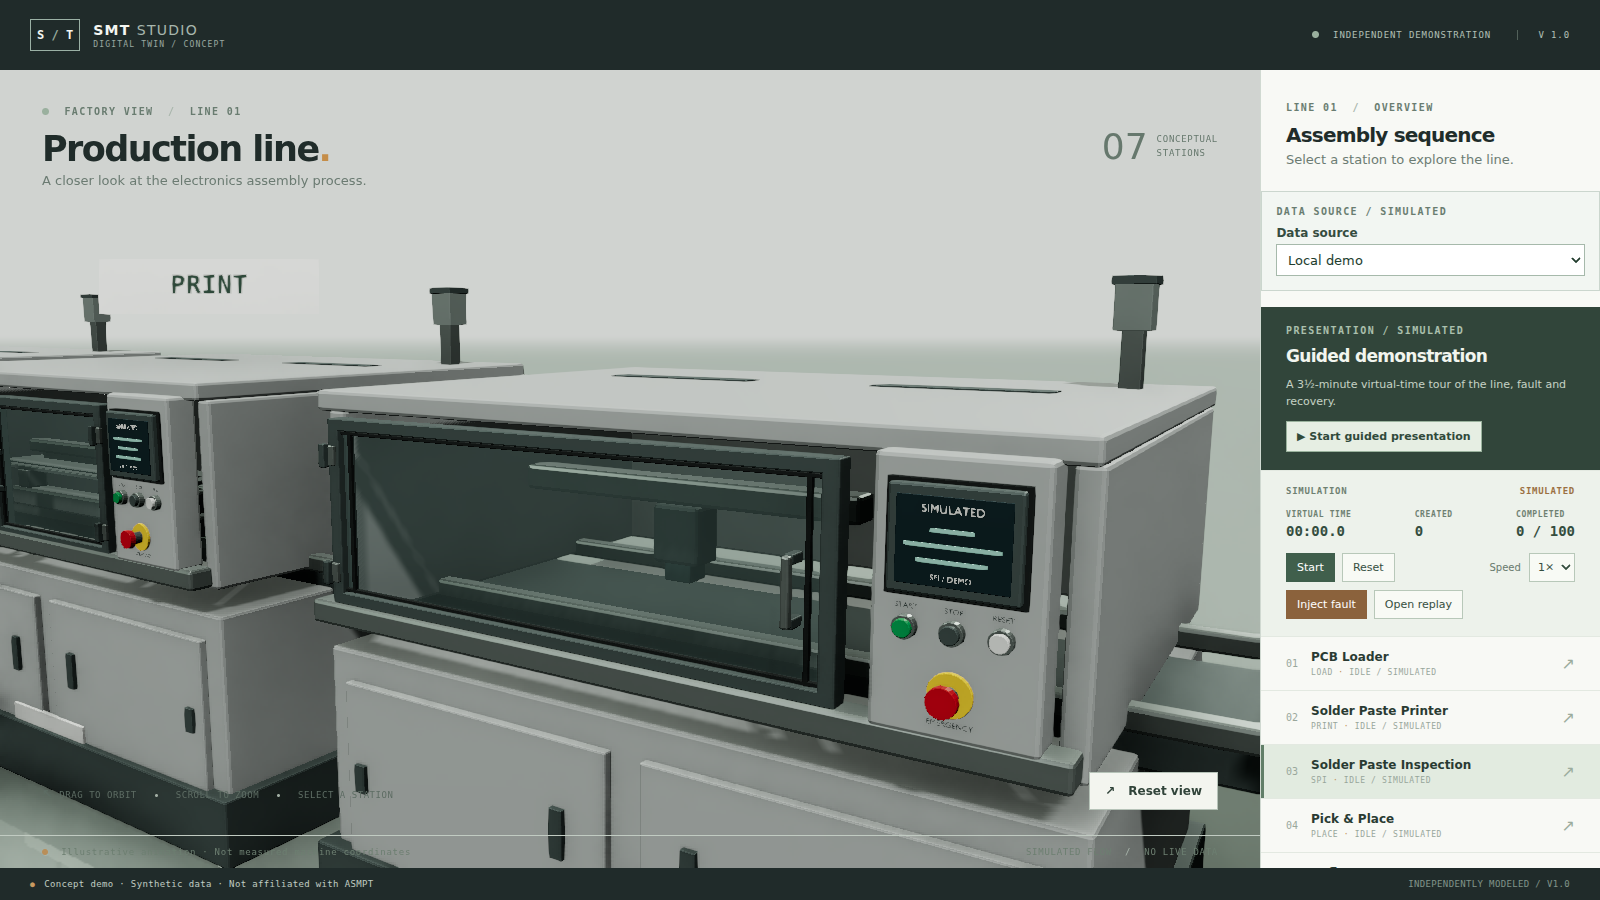
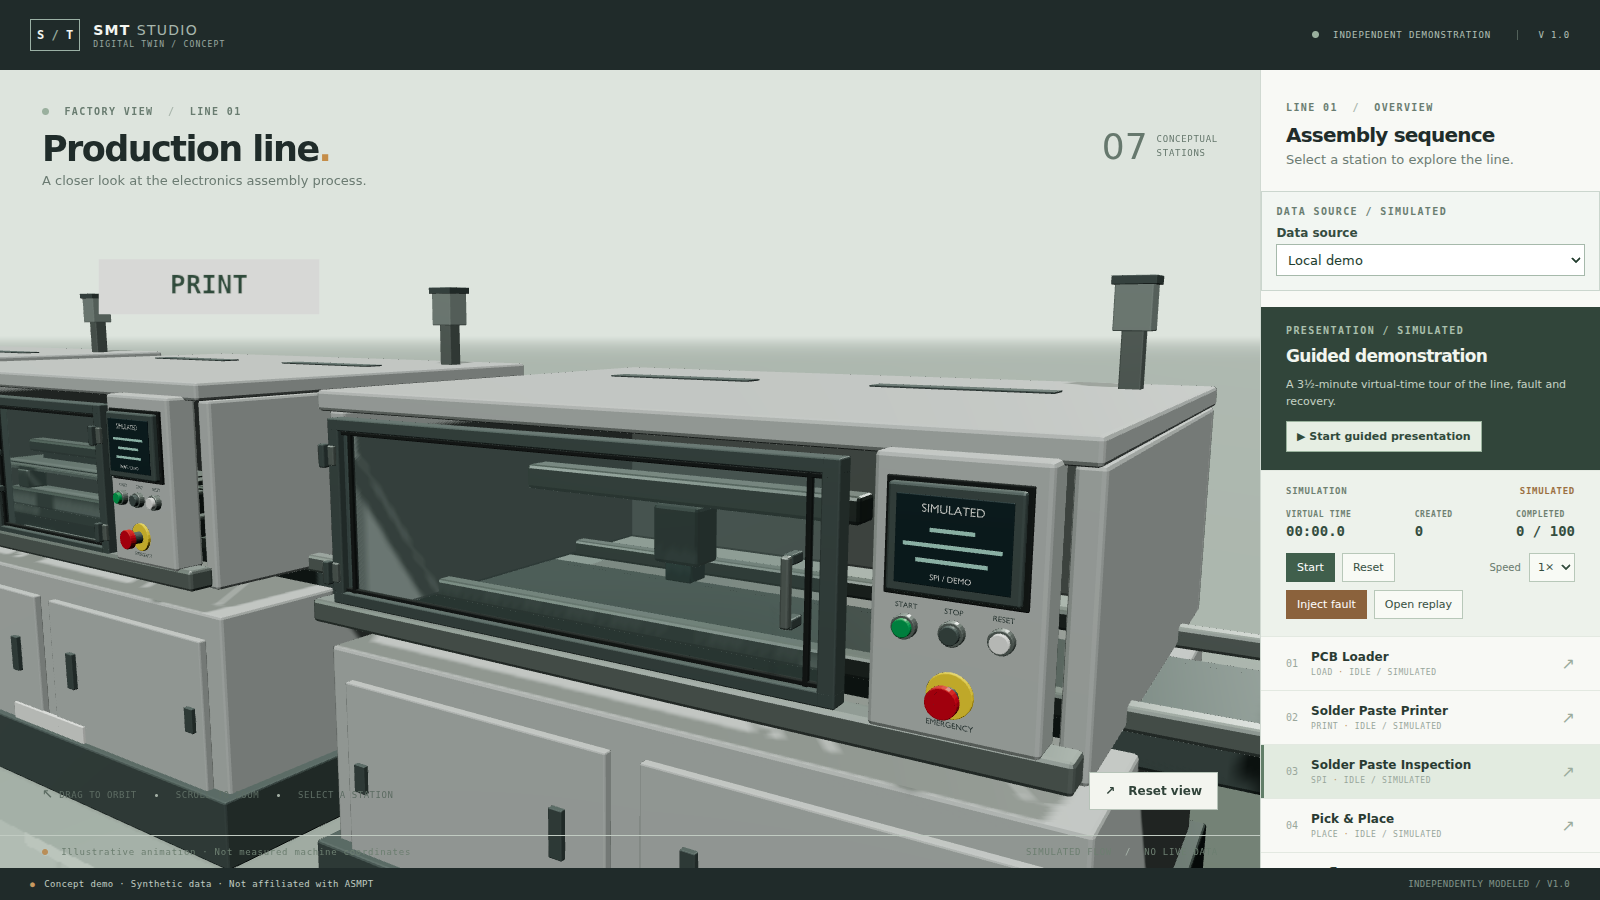
revert: drop ambient occlusion and keep the matte paint
AO changed the overview by 2.2 and the close-up by 8.5 grey levels while
costing 165 kB and a tenth of the frame; the key light already supplies
the contact shading. The pass, its packages and its tests are removed.

diff --git a/tests/e2e/factory.spec.ts b/tests/e2e/factory.spec.ts
@@ -40,8 +40,7 @@ test('a drag during the push-in cancels the ease without breaking the scene', as
   expect(errors).toEqual([])
 })
 
-for (const [mode, query, renderer] of [['ambient occlusion', '', 'composed'], ['low quality', '?quality=low', 'direct']]) {
-test(`renders the scene with ${mode} without console errors or cross-origin requests`, async ({ page }) => {
+test('renders the scene without console errors or cross-origin requests', async ({ page }) => {
   const errors: string[] = []
   const external: string[] = []
   page.on('pageerror', error => errors.push(error.message))
@@ -51,31 +50,13 @@ test(`renders the scene with ${mode} without console errors or cross-origin requ
     if (!url.protocol.startsWith('http')) return
     if (url.hostname !== '127.0.0.1' && url.hostname !== 'localhost') external.push(request.url())
   })
-  await page.goto(`/${query}`)
-  await expect(page.locator('canvas')).toBeVisible()
-  await expect(page.locator('body')).toHaveAttribute('data-renderer', renderer)
-  await page.waitForTimeout(1500)
-  await page.screenshot({ path: `test-results/overview-${query ? 'low' : 'ao'}.png`, animations: 'disabled' })
-  await page.getByRole('button', { name: /Pick & Place/ }).click()
-  await page.waitForTimeout(1200)
-  await page.screenshot({ path: `test-results/closeup-${query ? 'low' : 'ao'}.png`, animations: 'disabled' })
-  expect(external).toEqual([])
-  expect(errors).toEqual([])
-})
-}
-
-test('falls back to direct rendering when the context cannot render to float targets', async ({ page }) => {
-  await page.addInitScript(() => {
-    const original = WebGL2RenderingContext.prototype.getExtension
-    WebGL2RenderingContext.prototype.getExtension = function (name: string) {
-      if (name === 'EXT_color_buffer_float') return null
-      return original.call(this, name)
-    }
-  })
-  const warnings: string[] = []
-  page.on('console', message => { if (message.type() === 'warning') warnings.push(message.text()) })
   await page.goto('/')
   await expect(page.locator('canvas')).toBeVisible()
-  await expect(page.locator('body')).toHaveAttribute('data-renderer', 'direct')
-  await expect.poll(() => warnings.some(text => text.includes('Ambient occlusion disabled'))).toBe(true)
+  await page.waitForTimeout(1500)
+  await page.screenshot({ path: 'test-results/v12-overview.png', animations: 'disabled' })
+  await page.getByRole('button', { name: /Pick & Place/ }).click()
+  await page.waitForTimeout(1200)
+  await page.screenshot({ path: 'test-results/v12-closeup.png', animations: 'disabled' })
+  expect(external).toEqual([])
+  expect(errors).toEqual([])
 })

diff --git a/src/scene/Factory.tsx b/src/scene/Factory.tsx
@@ -13,14 +13,7 @@ import { easeInOutCubic, lerpPreset, tweenProgress } from './cameraTween'
 import { signalColor, signalIntensity } from './status'
 import Floor from './Floor'
 import LightRig, { EXPOSURE } from './lighting'
-import AmbientOcclusion from './AO'
-import { aoEnabled } from './ao'
 import { castsShadow } from './assetMaterials'
-
-function RenderMode({ mode }: { mode: 'composed' | 'direct' }) {
-  useEffect(() => { document.body.dataset.renderer = mode }, [mode])
-  return null
-}
 
 function Box({ position, size, color, metal = 0.25, name }: { position: [number, number, number]; size: [number, number, number]; color: string; metal?: number; name?: string }) {
   return <mesh name={name} position={position} castShadow receiveShadow><boxGeometry args={size} /><meshStandardMaterial color={color} metalness={metal} roughness={0.57} /></mesh>
@@ -215,9 +208,6 @@ export default function Factory({ selected, onSelect, resetKey, scene, selectedB
   return <Canvas shadows dpr={[1, 1.5]} gl={{ toneMappingExposure: EXPOSURE }} camera={{ position: overviewCamera.position, fov: 40 }} fallback={<div className="canvas-fallback">3D view unavailable. WebGL is required to view the factory.</div>}>
     <color attach="background" args={['#dde4dd']} /><fog attach="fog" args={['#dde4dd', 45, 110]} />
     <LightRig />
-    {aoEnabled(typeof window === 'undefined' ? '' : window.location.search)
-      ? <AmbientOcclusion />
-      : <RenderMode mode="direct" />}
     <Floor />
     {stations.map(station => <Machine key={station.id} station={station} machine={scene.stations[station.id]?.localMotion ?? null} status={scene.stations[station.id]?.state ?? 'UNKNOWN'} time={scene.simTimeMs} selected={selected?.id === station.id || boardStation === station.id} onSelect={() => onSelect(station)} />)}
     <Boards scene={scene} selectedBoard={selectedBoard} onSelectBoard={onSelectBoard} /><CameraRig station={selected} resetKey={resetKey} />

diff --git a/docs/MATERIALS_AO_REPORT.md b/docs/MATERIALS_AO_REPORT.md
@@ -1,14 +1,11 @@
-# Materials and ambient occlusion
+# Materials round (ambient occlusion evaluated and removed)
 
 Date: 2026-11-13. Branch: `v16-materials-ao`. **Awaiting user visual acceptance.**
 
 ## Delivered
 
 - **Powder coat** changed from bright semi-metallic paint to matte paint: base colour `(.46, .49, .47)` (was `.68/.72/.69`), metallic `.04` (was `.27`), roughness `.62` (was `.48`). All seven GLBs were regenerated; geometry is byte-for-byte identical and only that one material changed in each file.
-- **Ambient occlusion** via `n8ao`'s `N8AOPass` in a three `EffectComposer`: half resolution, `aoRadius 1.0`, `distanceFalloff 1.0`, `intensity 2.5`.
-- The composer ends with `SMAAPass` and `OutputPass`. N8AO draws into its own float target, so three's tone mapping and MSAA would otherwise be lost; N8AO's own gamma correction is disabled and the `OutputPass` applies ACES and the existing `toneMappingExposure` exactly as the direct path does.
-- The pass is skipped by `?quality=low` (with the environment bake) and by `?ao=off` (pass only, for comparison). It is also gated at runtime on `EXT_color_buffer_float`: without float render targets the demo renders directly and warns, instead of showing an empty stage.
-- No geometry, camera, simulation, backend or copy changes. No downloaded textures.
+- **No other rendering change.** The ambient-occlusion pass that was built earlier on this branch was measured, shown to the user and removed. Camera, simulation, backend, copy and screenshots are otherwise as before.
 
 ## Inspect
 
@@ -16,45 +13,42 @@ Date: 2026-11-13. Branch: `v16-materials-ao`. **Awaiting user visual acceptance.
 npm run dev -- --host 127.0.0.1 --port 5188
 ```
 
-| Base `6b16446` (old paint, no AO) | This branch (matte paint + AO) |
+| Base `6b16446` (old paint) | This branch (matte paint) |
 | --- | --- |
 | ![Before](screenshots/materials-ao/before-overview.png) | ![After](screenshots/materials-ao/overview.png) |
 
-Isolating the two levers on the same build:
+Close-ups: [mounter](screenshots/materials-ao/mounter.png) · [printer](screenshots/materials-ao/printer.png) · [SPI](screenshots/materials-ao/spi.png) · [reflow](screenshots/materials-ao/reflow.png). Base mounter: [before](screenshots/materials-ao/before-mounter.png). Low quality (`?quality=low`): [overview](screenshots/materials-ao/overview-low.png) · [mounter](screenshots/materials-ao/mounter-low.png).
 
-- paint only: [overview without AO](screenshots/materials-ao/overview-no-ao.png) — the matte paint is the larger change; the line loses its plastic sheen.
-- AO only (same paint, AO off → on): compare that image with [the overview](screenshots/materials-ao/overview.png).
+The cabinets now read as matte paint instead of plastic sheen; the metallic `0.27` on a non-metal surface was the main cause. Glazing, trim and the floor reflection are unchanged.
 
-Close-ups with AO: [mounter](screenshots/materials-ao/mounter.png) · [printer](screenshots/materials-ao/printer.png) · [SPI](screenshots/materials-ao/spi.png). Without AO/base: [mounter at base](screenshots/materials-ao/before-mounter.png), [low-quality overview](screenshots/materials-ao/overview-low.png), [low-quality mounter](screenshots/materials-ao/mounter-low.png).
+## Why ambient occlusion was removed
 
-Inspected at 1600×900 in headless Chromium/SwiftShader: the cabinets read as matte paint rather than plastic; AO darkens the recesses under frames, the plinth line and the door returns, and is subtle in the open. Glazed interiors stay readable, the planar floor reflection shows no doubled or leaking AO, and there are no console or page errors in either mode.
+AO was implemented as `n8ao`'s `N8AOPass` in a three composer (with `SMAA` and `OutputPass` so tone mapping and antialiasing survived), then compared three ways at the same camera:
+
+| Comparison (mean difference, 0–255 levels) | Overview | Mounter close-up |
+| --- | --- | --- |
+| AO off → intensity 2.5 | 2.2 | 8.5 |
+| AO off → intensity 4.0 / radius 1.4 | — | 12.3 |
+
+The contact shading the demo needs was already supplied by the key light's shadow map; AO only darkened the cabinet underside, door returns and cavity by a few levels. It cost 165 kB of bundle (478 → 603 kB gzip) and about a tenth of the frame time on headless SwiftShader. The user chose to drop it, so the pass, its two packages and its tests were removed.
+
+That earlier work also found a real trap worth keeping in mind if AO is ever revisited: N8AO renders into float targets and bypasses three's tone mapping and MSAA, so it needs `gammaCorrection = false` plus `SMAAPass` and `OutputPass`, and a context without `EXT_color_buffer_float` renders a blank stage unless the pass is gated.
 
 ## Measurements
 
 | Item | Value |
 | --- | --- |
-| Bundle | 1,679 kB → 1,909 kB minified (478 → 603 kB gzip); existing >500 kB warning remains |
-| New packages | `n8ao@2.0.2`, `@react-three/postprocessing@3.2.2` (brings `postprocessing@6.39.6`) |
-| Callback rate, AO on | 1.68 /s |
-| Callback rate, `?ao=off` (same lighting) | 1.86 /s |
+| Bundle | 1,679.32 kB minified / 478.31 kB gzip (unchanged from base; the AO packages are gone) |
+| `npm test` | 81 passed, 1 skipped |
+| `npm run typecheck` / `lint` / `build` | exit 0 (existing >500 kB warning) |
+| `npm run test:e2e` | 29 passed, 1 skipped, 6.1 min |
+| Callback rate, default | 1.86 /s |
 | Callback rate, `?quality=low` | 3.41 /s |
-| `npm test` | 85 passed, 1 skipped |
-| `npm run typecheck` / `lint` / `build` | exit 0 |
-| `npm run test:e2e` | 31 passed, 1 skipped, 7.6 min |
 
-Headless SwiftShader at 1366×768, 8-second samples. With the environment lighting held constant the AO pass costs roughly 10 %; most of the `?quality=low` gain comes from skipping the environment bake, not from AO. These are software-rasteriser numbers and say nothing about the demo machine.
-
-## Failure and fallback behaviour
-
-- `?quality=low` or `?ao=off`: no composer is constructed, no extra render targets exist.
-- A context without `EXT_color_buffer_float`: the composer is not built, the scene renders directly, and the console warns once. Pinned by a browser test that stubs the extension and asserts the direct renderer.
-- The browser guard asserts `body[data-renderer]` is `composed` with AO and `direct` with `?quality=low`, so a switch that silently stops working fails the suite.
-- Resizes call `composer.setSize`/`setPixelRatio` on a single composer; they do not rebuild it, so GPU targets are not leaked per resize.
+Headless SwiftShader at 1366×768. The default-vs-low gap is the environment bake, not this round.
 
 ## Boundaries and decisions
 
-- `@react-three/postprocessing` is installed but only its peer `postprocessing` is used: its composer accepts `Effect`s, while N8AO ships a `Pass`. The manual composer is N8AO's documented integration.
-- The composer owns rendering (`useFrame` priority 1). Any later post effect belongs in that composer.
-- The quality switch is read when the scene mounts; changing `?quality=low` requires a reload, because the composer takes over the frame loop.
-- Material changes are independent of AO: reverting the generator commit restores the old paint without touching the pass, and `?ao=off` disables AO without touching the paint.
-- AO softness is deliberate: `intensity 2.5` gives a legible contact band under the cabinets without dirtying the large flat panels.
+- This round is deliberately one material value plus seven regenerated GLBs. Reverting the generator commit restores the previous paint exactly.
+- AO was implemented, reviewed and then withdrawn on evidence rather than left in as dead weight; the branch history keeps that record.
+- No bloom, depth of field, textures or geometry changes. LOD variants remain unimplemented.

diff --git a/README.md b/README.md
@@ -65,7 +65,7 @@ npm run dev
 
 Open the URL printed by Vite. Drag to orbit, scroll to zoom, and click a machine or use the keyboard-accessible station list to focus it. **Reset view** restores the overview. Use **Start/Pause**, **Reset**, and the 1×/2×/5× selector.
 
-The scene uses seven locally packaged GLBs generated from one original Blender pipeline; the procedural shell is only a load-failure fallback. Lighting is an authored showroom rig: three softbox lightformers baked once into an environment map, a key light that casts shadows, and a blurred planar reflection on the floor. Screen-space ambient occlusion adds contact shading in the recesses and under the cabinets; it is skipped with `?quality=low`, and `?ao=off` skips only the pass. Both are read when the scene mounts, so change the URL and reload. No HDRI, texture or font is downloaded — the demo still runs with no network. WebGL is required; a fallback message is shown when it is unavailable.
+The scene uses seven locally packaged GLBs generated from one original Blender pipeline; the procedural shell is only a load-failure fallback. Lighting is an authored showroom rig: three softbox lightformers baked once into an environment map, a key light that casts shadows, and a blurred planar reflection on the floor. The powder coat is matte in the seven assets, so the line reads as industrial enclosures rather than plastic. Ambient occlusion was evaluated for this scene and removed: the key light's shadow map already provides the contact shading, and the extra pass changed the image by only a few levels. No HDRI, texture or font is downloaded — the demo still runs with no network. WebGL is required; a fallback message is shown when it is unavailable.
 
 #### Static deployment
 
@@ -292,7 +292,7 @@ cd tests/integration && W6_PROJECT=w6-e2e-$(date +%s) ./w6-recovery.sh
 
 **Browser demo and build**
 
-- Station mechanisms are conceptual and their travel is bounded illustration, not machine coordinates. Cross-station PCB jumps remain a known visual gap; transfers are instantaneous in the model. Remote (W4) views and their historical replay render the seven models statically because the projection carries no per-station process phase; local replay still drives poses from the recorded virtual time. LOD variants are not implemented. Post-processing is limited to ambient occlusion plus SMAA; bloom and depth of field are not implemented. The authored environment is the expensive part. Headless SwiftShader at 1366×768 measures ~1.7 callbacks/s with the environment and ambient occlusion, ~1.9 with AO disabled, and ~3.4 with `?quality=low`, which skips the environment bake. AO itself costs about a tenth of the frame; the planar floor costs almost nothing. These are software-rasteriser numbers, so measure the demo machine itself before relying on them.
+- Station mechanisms are conceptual and their travel is bounded illustration, not machine coordinates. Cross-station PCB jumps remain a known visual gap; transfers are instantaneous in the model. Remote (W4) views and their historical replay render the seven models statically because the projection carries no per-station process phase; local replay still drives poses from the recorded virtual time. LOD variants and post-processing (ambient occlusion, bloom, depth of field) are not implemented. The authored environment is the expensive part: headless SwiftShader at 1366×768 measures ~1.9 callbacks/s by default and ~3.4 with `?quality=low`, which skips the environment bake. The planar floor costs almost nothing. These are software-rasteriser numbers, so measure the demo machine itself before relying on them.
 - Analytics are calculated from the in-memory simulated run, not certified KPIs, MES data or production telemetry. Replay logs are in memory; export/import is not implemented.
 - The build targets root deployment; a subpath requires setting Vite's `base`. The bundle exceeds 500 kB and dependency advisories remain.
 

diff --git a/docs/DECISIONS.md b/docs/DECISIONS.md
@@ -65,8 +65,6 @@
 
 ## v1.6 (2026-11-13)
 - Powder coat is matte paint: base `(.46, .49, .47)`, metallic `0.04`, roughness `0.62`. The previous values (`.68/.72/.69`, metallic `0.27`) made a non-metal surface read as plastic because of the metallic sheen, not because of its lightness alone.
-- Ambient occlusion runs through `N8AOPass` from `n8ao`, added to a three `EffectComposer` by hand. `@react-three/postprocessing` is installed but only its peer `postprocessing` is used: its composer takes `Effect`s, while N8AO ships a `Pass`.
-- The AO component takes over rendering (`useFrame` priority 1). Any later post effect belongs in that same composer.
-- `?quality=low` skips AO as well as the environment bake; `?ao=off` skips only the pass so its cost and look can be compared. At 1366×768 on headless SwiftShader, with the environment held constant, AO costs about 10 % (1.68 vs 1.86 callbacks/s); nearly all of the low-mode gain is the environment bake (3.41). Bundle grew 165 kB minified / 86 kB gzip.
-- N8AO draws into its own float target, which bypasses three's tone mapping and MSAA. `gammaCorrection` is therefore off and the composer ends with `SMAAPass` and `OutputPass`, so ACES and `toneMappingExposure` still govern the image and edges stay smooth. The glazing and the planar floor reflection showed no doubling or leaking at `intensity 2.5`, half resolution.
-- AO is gated on `EXT_color_buffer_float`; without float render targets the scene renders directly and warns, rather than showing a blank stage.
+- Ambient occlusion was implemented (`n8ao` + `SMAAPass` + `OutputPass`), reviewed, then removed. Measured against `?ao=off` at the same camera it changed the overview by 2.2 and the mounter close-up by 8.5 grey levels (of 255); the key light's shadow map already supplies the contact shading. It cost 165 kB of bundle and about a tenth of the frame on headless SwiftShader. Both packages and the pass are gone.
+- If AO is revisited: N8AO draws into float targets and bypasses three's tone mapping and MSAA, so it needs `gammaCorrection = false` with `SMAAPass` + `OutputPass`, and a gate on `EXT_color_buffer_float` — without that gate the stage renders blank on contexts without float targets.
+- `?quality=low` remains the environment-bake switch: ~1.9 callbacks/s by default vs ~3.4 with it, at 1366×768 on headless SwiftShader. Bundle is 1,679 kB minified / 478 kB gzip.
